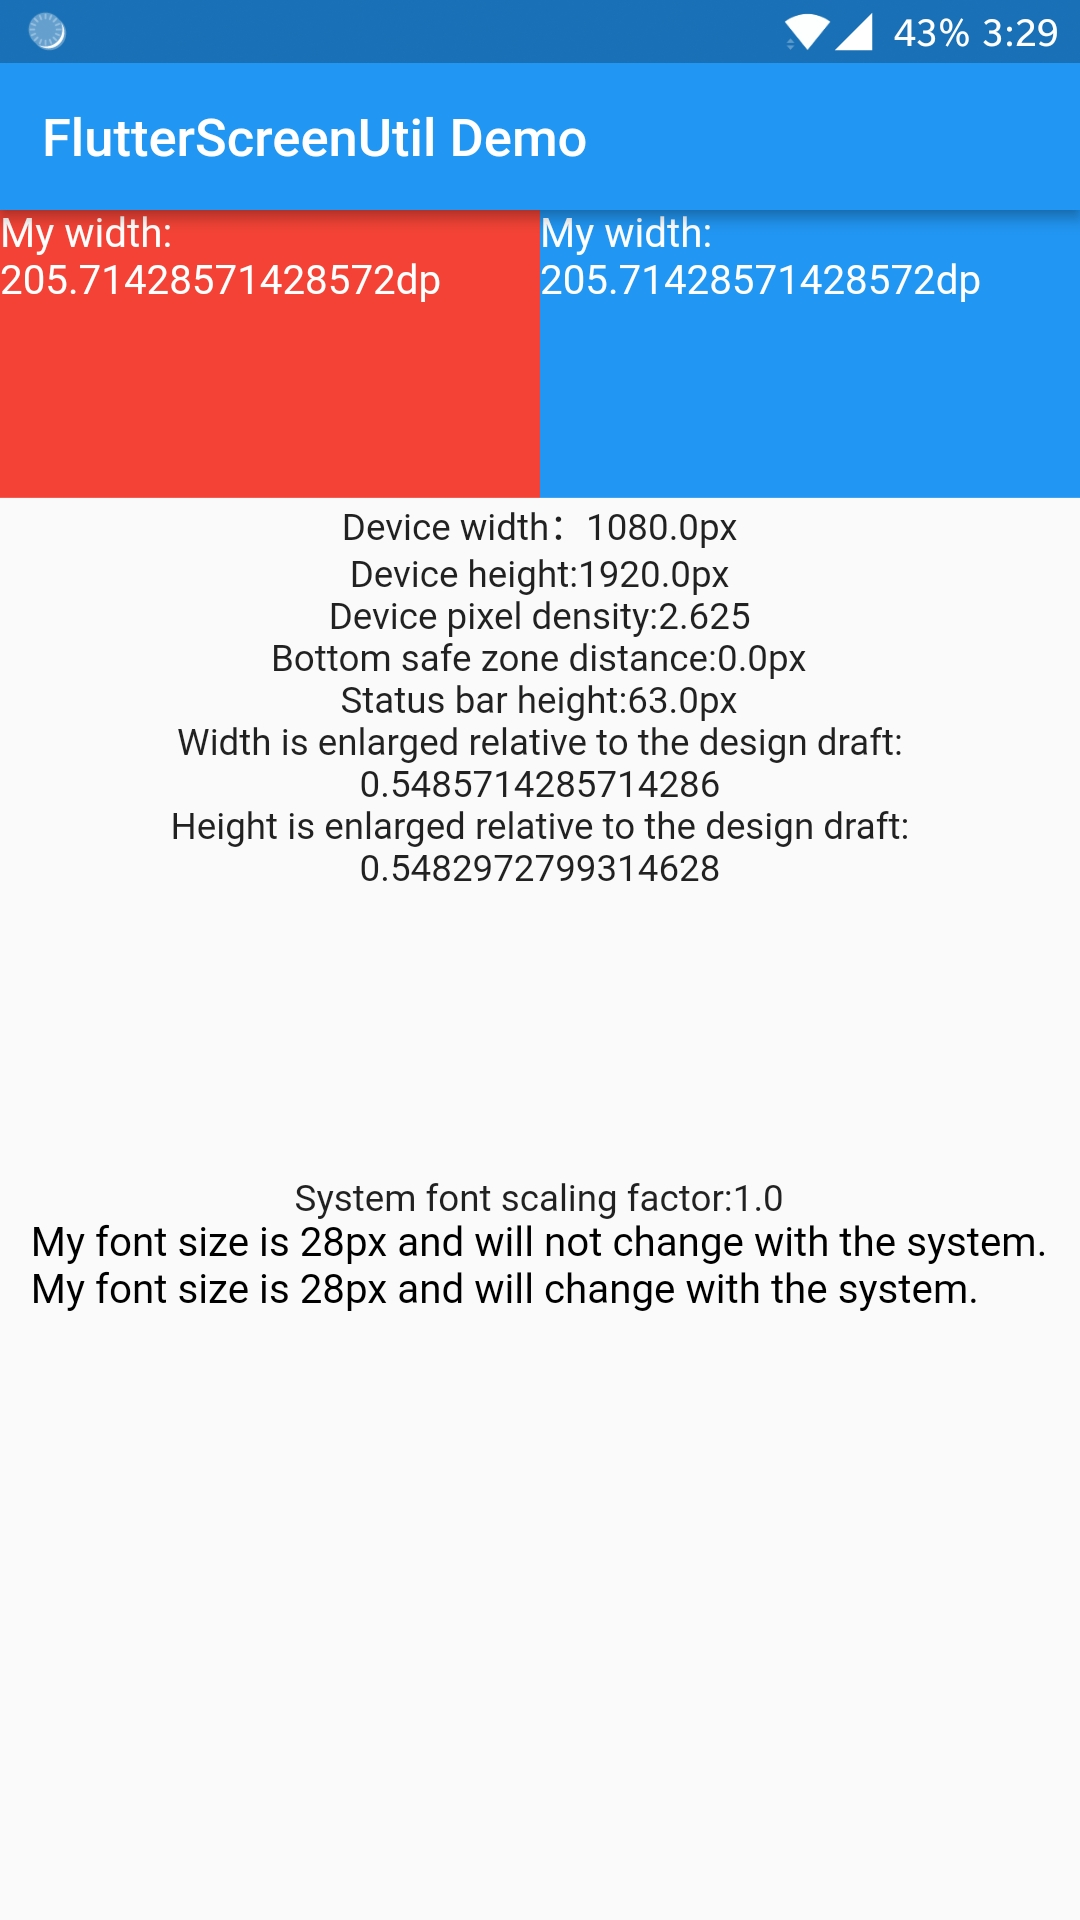
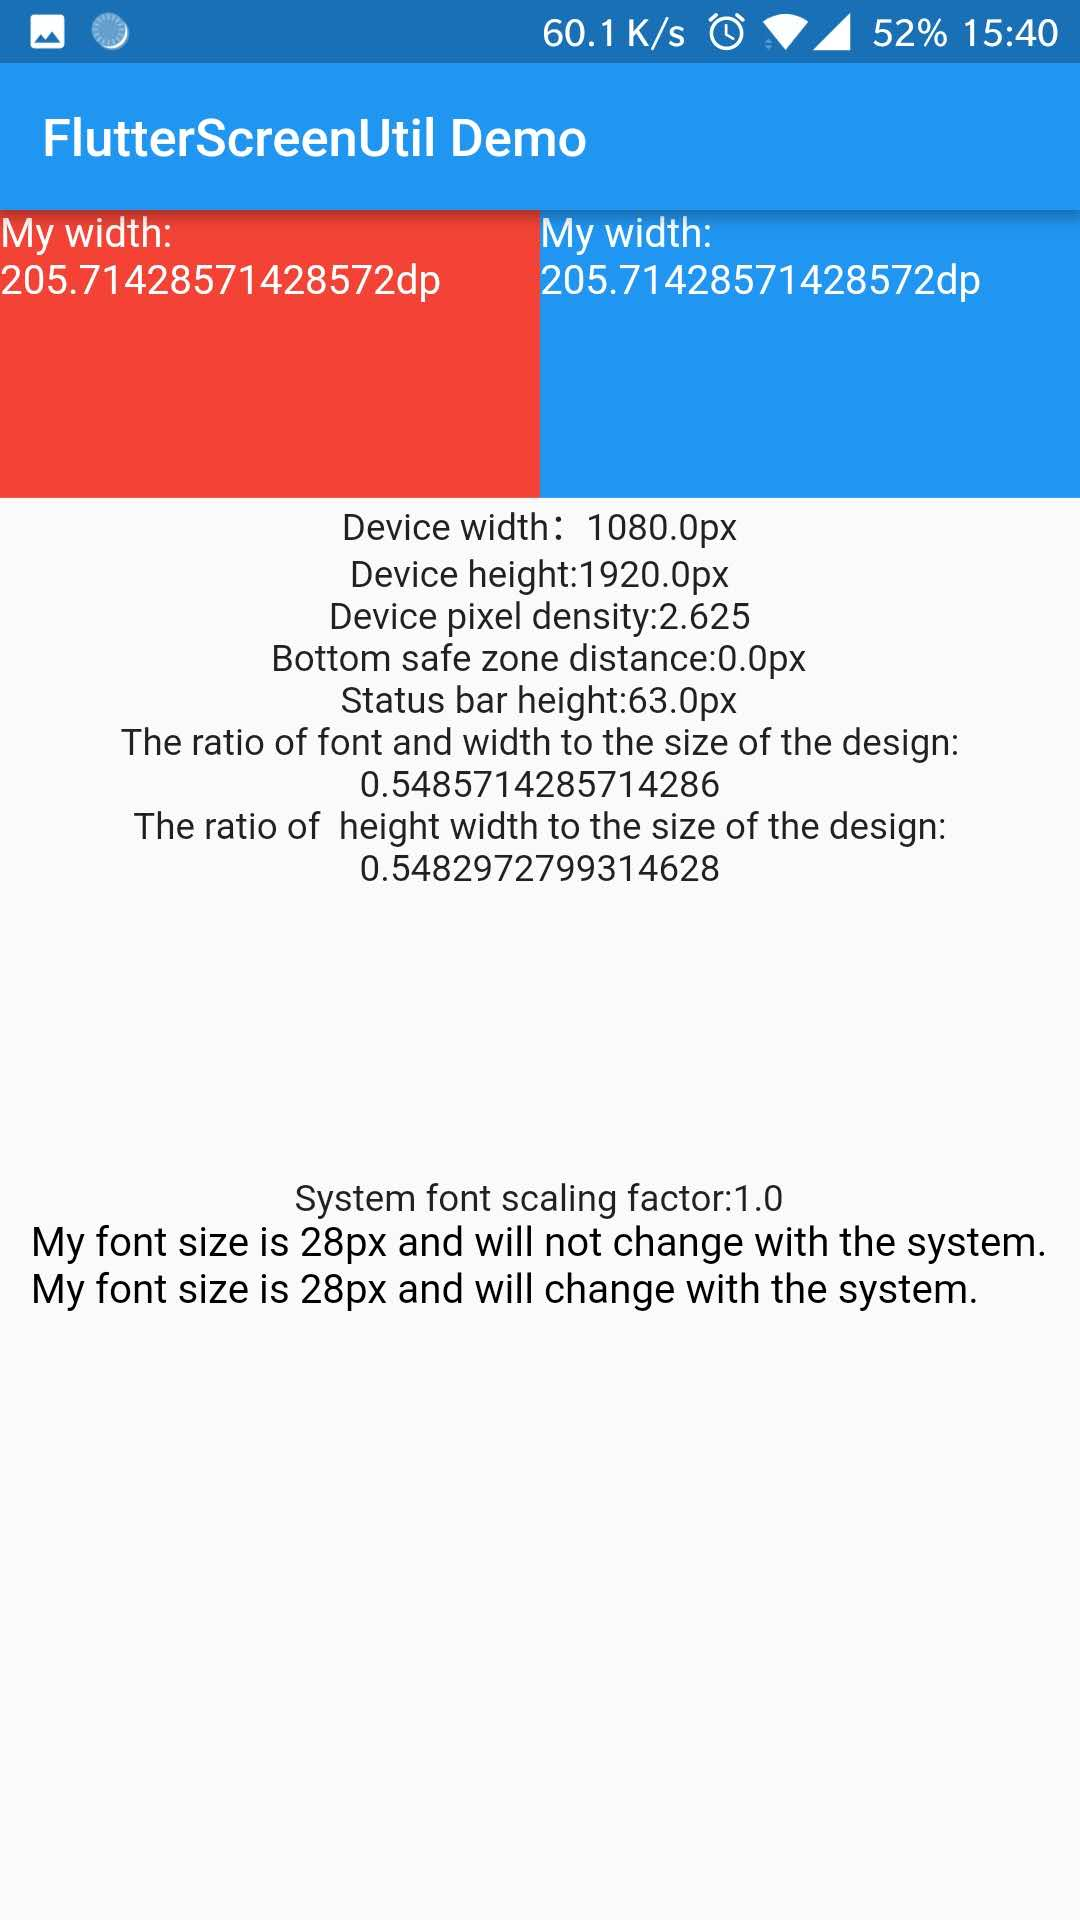
优化example

diff --git a/example/lib/main.dart b/example/lib/main.dart
@@ -83,11 +83,11 @@ class _MyHomePageState extends State<MyHomePage> {
             Text('Bottom safe zone distance:${ScreenUtil.bottomBarHeight}px'),
             Text('Status bar height:${ScreenUtil.statusBarHeight}px'),
             Text(
-              'Width is enlarged relative to the design draft:${ScreenUtil().scaleWidth}',
+              'The ratio of font and width to the size of the design:${ScreenUtil().scaleWidth}',
               textAlign: TextAlign.center,
             ),
             Text(
-              'Height is enlarged relative to the design draft:${ScreenUtil().scaleHeight}',
+              'The ratio of  height width to the size of the design:${ScreenUtil().scaleHeight}',
               textAlign: TextAlign.center,
             ),
             SizedBox(

diff --git a/example/lib/main_zh.dart b/example/lib/main_zh.dart
@@ -83,11 +83,11 @@ class _MyHomePageState extends State<MyHomePage> {
             Text('底部安全区距离:${ScreenUtil.bottomBarHeight}px'),
             Text('状态栏高度:${ScreenUtil.statusBarHeight}px'),
             Text(
-              '宽度相对于设计稿放大的倍数:${ScreenUtil().scaleWidth}',
+              '字体和宽度相对设计稿放大的比例:${ScreenUtil().scaleWidth}',
               textAlign: TextAlign.center,
             ),
             Text(
-              '高度相对于设计稿放大的倍数:${ScreenUtil().scaleHeight}',
+              '高度相对于设计稿放大的比例:${ScreenUtil().scaleHeight}',
               textAlign: TextAlign.center,
             ),
             SizedBox(

diff --git a/README_CN.md b/README_CN.md
@@ -1,6 +1,6 @@
 
 # flutter_ScreenUtil
-**flutter 屏幕适配方案，让你的UI不会因为在不同设备上变得难看**
+**flutter 屏幕适配方案，让你的UI在不同尺寸的屏幕上都能显示合理的布局!**
 
 [README of English](https://github.com/OpenFlutter/flutter_ScreenUtil/blob/master/README.md)
 
@@ -77,8 +77,8 @@ for example:
     ScreenUtil.statusBarHeight  //状态栏高度 刘海屏会更高  单位px
     ScreenUtil.textScaleFactory //系统字体缩放比例
     
-    ScreenUtil().scaleWidth  //宽度相对于设计稿放大的倍数
-    ScreenUtil().scaleHeight //高度相对于设计稿放大的倍数
+    ScreenUtil().scaleWidth  //字体和宽度相对设计稿放大的比例
+    ScreenUtil().scaleHeight //高度相对于设计稿放大的比例
     
 ```
 
@@ -88,90 +88,89 @@ import 'package:flutter_screenutil/flutter_screenutil.dart';
 
 ...
 
-  @override
-   Widget build(BuildContext context) {
-     //设置适配尺寸 (填入设计稿中设备的屏幕尺寸) 假如设计稿是按iPhone6的尺寸设计的(iPhone6 750*1334)
-     ScreenUtil.instance = ScreenUtil(width: 750, height: 1334)..init(context);
-     print('设备宽度:${ScreenUtil.screenWidth}'); //Device width
-     print('设备高度:${ScreenUtil.screenHeight}'); //Device height
-     print('设备的像素密度:${ScreenUtil.pixelRatio}'); //Device pixel density
-     print(
-         '底部安全区距离:${ScreenUtil.bottomBarHeight}'); //Bottom safe zone distance，suitable for buttons with full screen
-     print(
-         '状态栏高度:${ScreenUtil.statusBarHeight}px'); //Status bar height , Notch will be higher Unit px
-     print(
-         '宽度相对于设计稿放大的倍数:${ScreenUtil().scaleWidth}'); //The width is enlarged relative to the design draft
-     print(
-         '高度相对于设计稿放大的倍数:${ScreenUtil().scaleHeight}'); //The height is enlarged relative to the design draft
-     print('系统的字体缩放比例:${ScreenUtil.textScaleFactory}');
- 
-     return new Scaffold(
-       appBar: new AppBar(
-         title: new Text(widget.title),
-       ),
-       body: new Center(
-         child: Column(
-           crossAxisAlignment: CrossAxisAlignment.center,
-           children: <Widget>[
-             Row(
-               children: <Widget>[
-                 Container(
-                   width: ScreenUtil().setWidth(375),
-                   height: ScreenUtil().setHeight(200),
-                   color: Colors.red,
-                   child: Text(
-                     'My width:${ScreenUtil().setWidth(375)}dp',
-                     style: TextStyle(
-                         color: Colors.white,
-                         fontSize: ScreenUtil().setSp(28, false)),
-                   ),
-                 ),
-                 Container(
-                   width: ScreenUtil().setWidth(375),
-                   height: ScreenUtil().setHeight(200),
-                   color: Colors.blue,
-                   child: Text('My width:${ScreenUtil().setWidth(375)}dp',
-                       style: TextStyle(
-                           color: Colors.white,
-                           fontSize: ScreenUtil().setSp(28, false))),
-                 ),
-               ],
-             ),
-             Text('Device width：${ScreenUtil.screenWidth}px'),
-             Text('Device height:${ScreenUtil.screenHeight}px'),
-             Text('Device pixel density:${ScreenUtil.pixelRatio}'),
-             Text('Bottom safe zone distance:${ScreenUtil.bottomBarHeight}px'),
-             Text('Status bar height:${ScreenUtil.statusBarHeight}px'),
-             Text(
-               'Width is enlarged relative to the design draft:${ScreenUtil().scaleWidth}',
-               textAlign: TextAlign.center,
-             ),
-             Text(
-               'Height is enlarged relative to the design draft:${ScreenUtil().scaleHeight}',
-               textAlign: TextAlign.center,
-             ),
-             SizedBox(
-               height: ScreenUtil().setHeight(200),
-             ),
-             Text('System font scaling:${ScreenUtil.textScaleFactory}'),
-             Column(
-               crossAxisAlignment: CrossAxisAlignment.start,
-               children: <Widget>[
-                 Text(
-                     '我的文字大小是28px，不会随着系统的文字大小变化',
-                     style: TextStyle(
-                         color: Colors.black,
-                         fontSize: ScreenUtil().setSp(28, false))),
-                 Text('我的文字大小是28px，会随着系统的文字大小变化',
-                     style: TextStyle(
-                         color: Colors.black, fontSize: ScreenUtil().setSp(28))),
-               ],
-             )
-           ],
-         ),
-       ),
-     );
-   }
+@override
+  Widget build(BuildContext context) {
+    //设置适配尺寸 (填入设计稿中设备的屏幕尺寸) 假如设计稿是按iPhone6的尺寸设计的(iPhone6 750*1334)
+    ScreenUtil.instance = ScreenUtil(width: 750, height: 1334)..init(context);
+    print('设备宽度:${ScreenUtil.screenWidth}'); //Device width
+    print('设备高度:${ScreenUtil.screenHeight}'); //Device height
+    print('设备的像素密度:${ScreenUtil.pixelRatio}'); //Device pixel density
+    print(
+        '底部安全区距离:${ScreenUtil.bottomBarHeight}'); //Bottom safe zone distance，suitable for buttons with full screen
+    print(
+        '状态栏高度:${ScreenUtil.statusBarHeight}px'); //Status bar height , Notch will be higher Unit px
+    print(
+        '字体和宽度相对设计稿放大的比例:${ScreenUtil().scaleWidth}'); //The width is enlarged relative to the design draft
+    print(
+        '高度相对于设计稿放大的比例:${ScreenUtil().scaleHeight}'); //The height is enlarged relative to the design draft
+    print('系统的字体缩放比例:${ScreenUtil.textScaleFactory}');
+
+    return new Scaffold(
+      appBar: new AppBar(
+        title: new Text(widget.title),
+      ),
+      body: new Center(
+        child: Column(
+          crossAxisAlignment: CrossAxisAlignment.center,
+          children: <Widget>[
+            Row(
+              children: <Widget>[
+                Container(
+                  width: ScreenUtil().setWidth(375),
+                  height: ScreenUtil().setHeight(200),
+                  color: Colors.red,
+                  child: Text(
+                    '我的宽度:${ScreenUtil().setWidth(375)}dp',
+                    style: TextStyle(
+                        color: Colors.white,
+                        fontSize: ScreenUtil().setSp(28, false)),
+                  ),
+                ),
+                Container(
+                  width: ScreenUtil().setWidth(375),
+                  height: ScreenUtil().setHeight(200),
+                  color: Colors.blue,
+                  child: Text('我的宽度:${ScreenUtil().setWidth(375)}dp',
+                      style: TextStyle(
+                          color: Colors.white,
+                          fontSize: ScreenUtil().setSp(28, false))),
+                ),
+              ],
+            ),
+            Text('设备宽度：${ScreenUtil.screenWidth}px'),
+            Text('设备高度:${ScreenUtil.screenHeight}px'),
+            Text('设备的像素密度:${ScreenUtil.pixelRatio}'),
+            Text('底部安全区距离:${ScreenUtil.bottomBarHeight}px'),
+            Text('状态栏高度:${ScreenUtil.statusBarHeight}px'),
+            Text(
+              '字体和宽度相对设计稿放大的比例:${ScreenUtil().scaleWidth}',
+              textAlign: TextAlign.center,
+            ),
+            Text(
+              '高度相对于设计稿放大的比例:${ScreenUtil().scaleHeight}',
+              textAlign: TextAlign.center,
+            ),
+            SizedBox(
+              height: ScreenUtil().setHeight(200),
+            ),
+            Text('系统的字体缩放比例:${ScreenUtil.textScaleFactory}'),
+            Column(
+              crossAxisAlignment: CrossAxisAlignment.start,
+              children: <Widget>[
+                Text('我的文字大小是28px，不会随着系统的文字大小变化',
+                    style: TextStyle(
+                        color: Colors.black,
+                        fontSize: ScreenUtil().setSp(28, false))),
+                Text('我的文字大小是28px，会随着系统的文字大小变化',
+                    style: TextStyle(
+                        color: Colors.black, fontSize: ScreenUtil().setSp(28))),
+              ],
+            )
+          ],
+        ),
+      ),
+    );
+  }
 ```
 
 ### 使用示例:

diff --git a/README.md b/README.md
@@ -1,6 +1,6 @@
 
 # flutter_ScreenUtil
-**A flutter plugin for adapting screen and font size.Guaranteed to look good on different models**
+**A flutter plugin for adapting screen and font size.Let your UI display a reasonable layout on different screen sizes!**
 
 [中文文档](https://github.com/OpenFlutter/flutter_ScreenUtil/blob/master/README_CN.md)
 
@@ -76,8 +76,8 @@ Other related apis：
     ScreenUtil.statusBarHeight  //Status bar height , Notch will be higher Unit px
     ScreenUtil.textScaleFactory //System font scaling factor
 
-    ScreenUtil().scaleWidth //The width is enlarged relative to the design draft
-    ScreenUtil().scaleHeight //Height relative to the magnification of the design draft
+    ScreenUtil().scaleWidth //The ratio of font and width to the size of the design
+    ScreenUtil().scaleHeight //The ratio of  height width to the size of the design
 
 ```
 
@@ -87,7 +87,7 @@ import 'package:flutter_screenutil/flutter_screenutil.dart';
 
 ...
 
- @override
+  @override
   Widget build(BuildContext context) {
     ///Set the fit size (fill in the screen size of the device in the design) If the design is based on the size of the iPhone6 (iPhone6 750*1334)
     ScreenUtil.instance = ScreenUtil(width: 750, height: 1334)..init(context);
@@ -100,10 +100,9 @@ import 'package:flutter_screenutil/flutter_screenutil.dart';
     print(
         'Status bar height:${ScreenUtil.statusBarHeight}px'); //Status bar height , Notch will be higher Unit px
     print(
-        'Width is enlarged relative to the design draft:${ScreenUtil().scaleWidth}'); //The width is enlarged relative to the design draft
+        'The ratio of font and width to the size of the design:${ScreenUtil().scaleWidth}'); //The width is enlarged relative to the design draft
     print(
-        'Height is enlarged relative to the design draft:${ScreenUtil().scaleHeight}'); //The height is enlarged relative to the design draft
-    print('System font scaling:${ScreenUtil.textScaleFactory}');
+        'The ratio of  height width to the size of the design:${ScreenUtil().scaleHeight}'); //The height is enlarged relative to the design draft
 
     return new Scaffold(
       appBar: new AppBar(
@@ -143,11 +142,11 @@ import 'package:flutter_screenutil/flutter_screenutil.dart';
             Text('Bottom safe zone distance:${ScreenUtil.bottomBarHeight}px'),
             Text('Status bar height:${ScreenUtil.statusBarHeight}px'),
             Text(
-              'Width is enlarged relative to the design draft:${ScreenUtil().scaleWidth}',
+              'The ratio of font and width to the size of the design:${ScreenUtil().scaleWidth}',
               textAlign: TextAlign.center,
             ),
             Text(
-              'Height is enlarged relative to the design draft:${ScreenUtil().scaleHeight}',
+              'The ratio of  height width to the size of the design:${ScreenUtil().scaleHeight}',
               textAlign: TextAlign.center,
             ),
             SizedBox(
